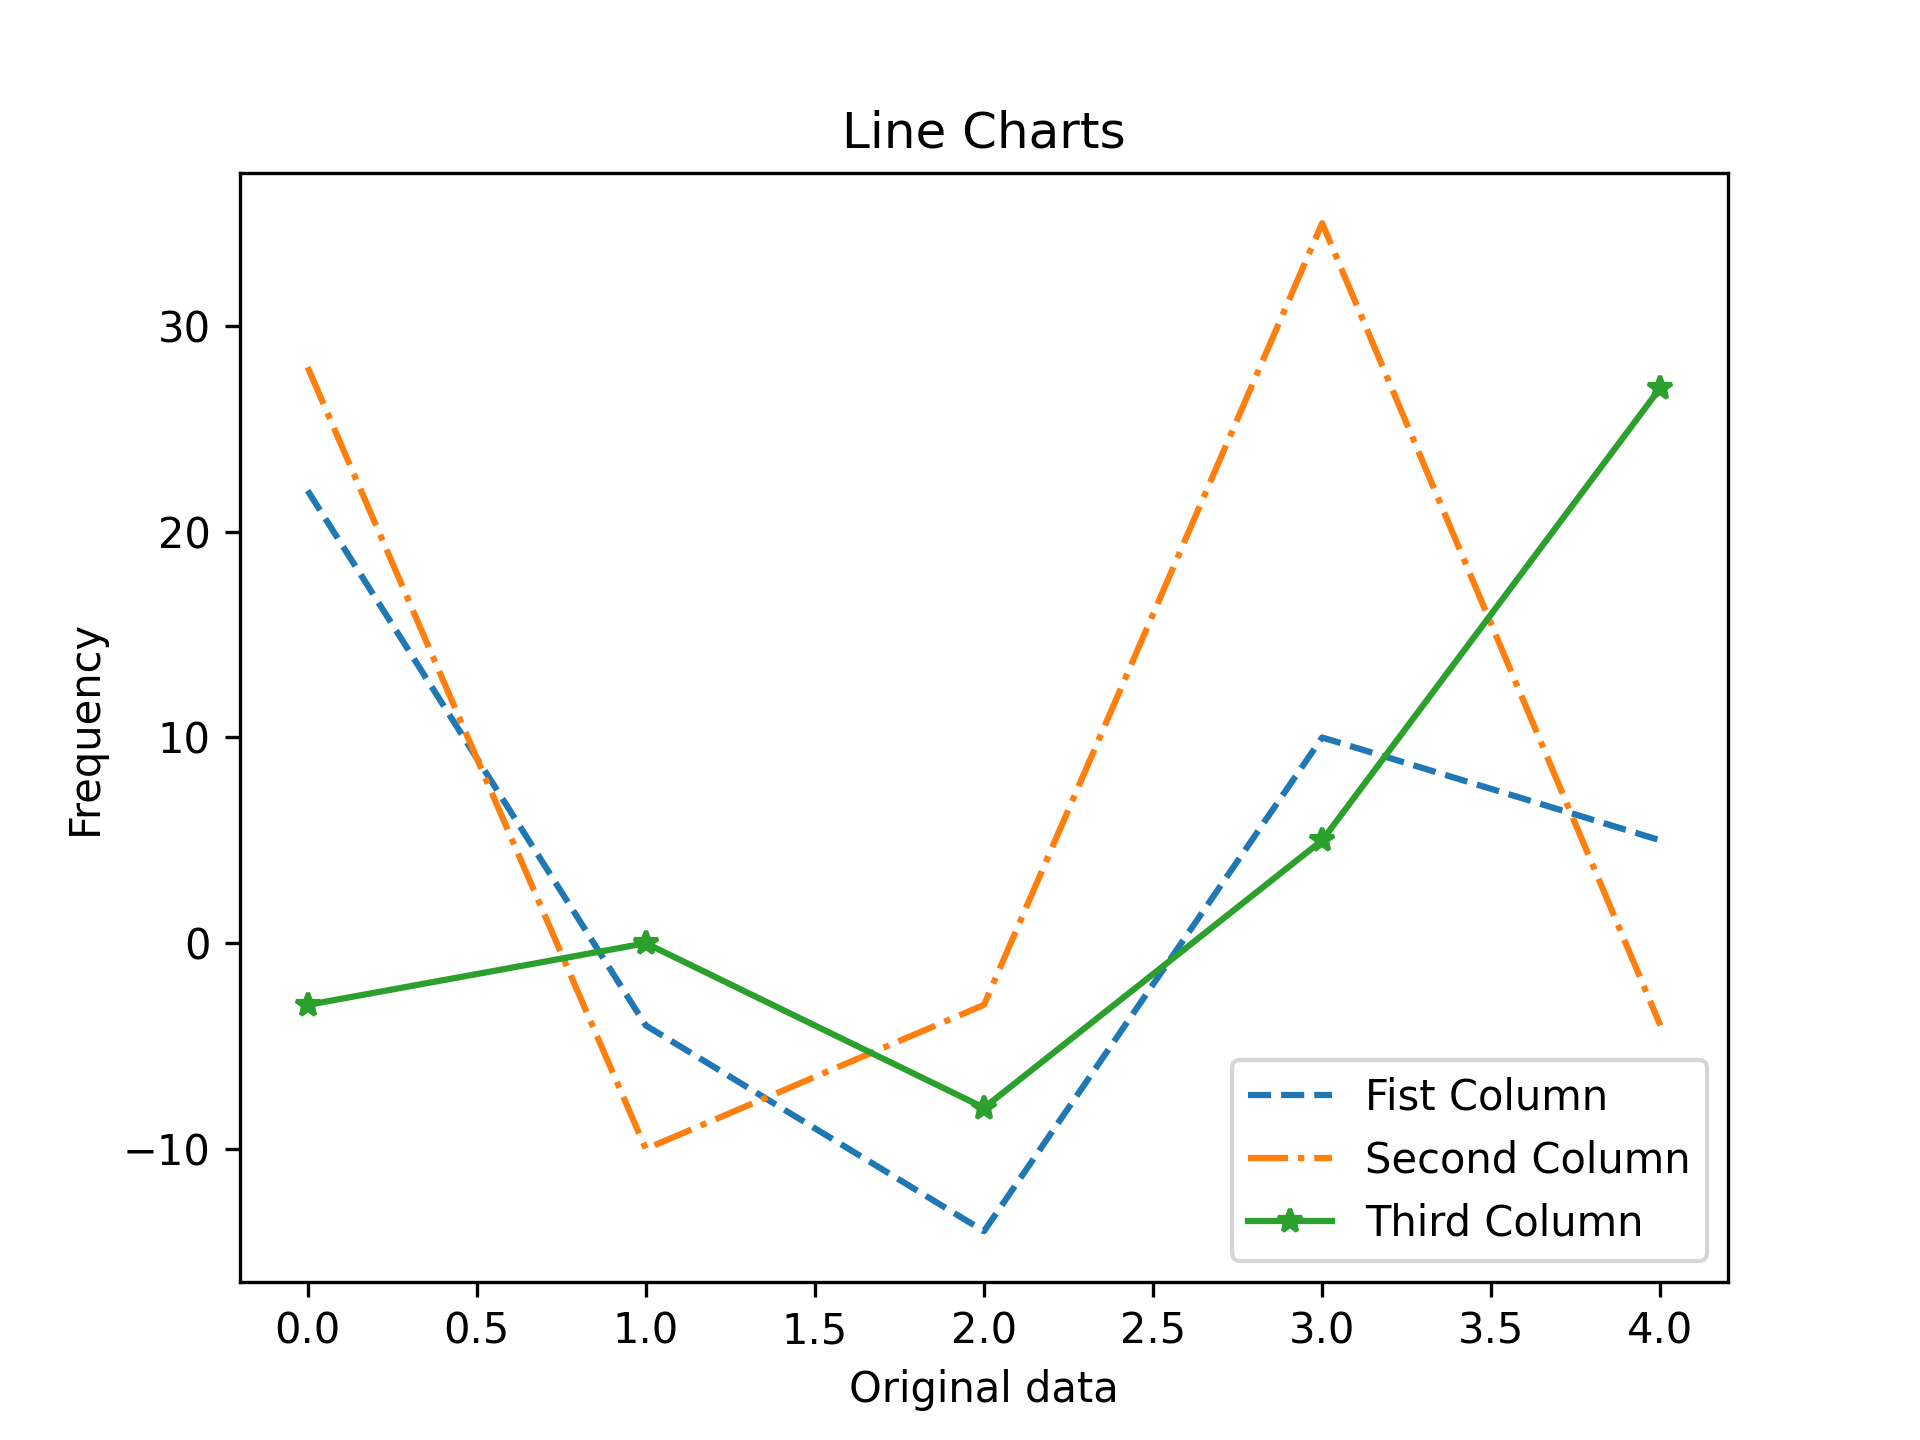
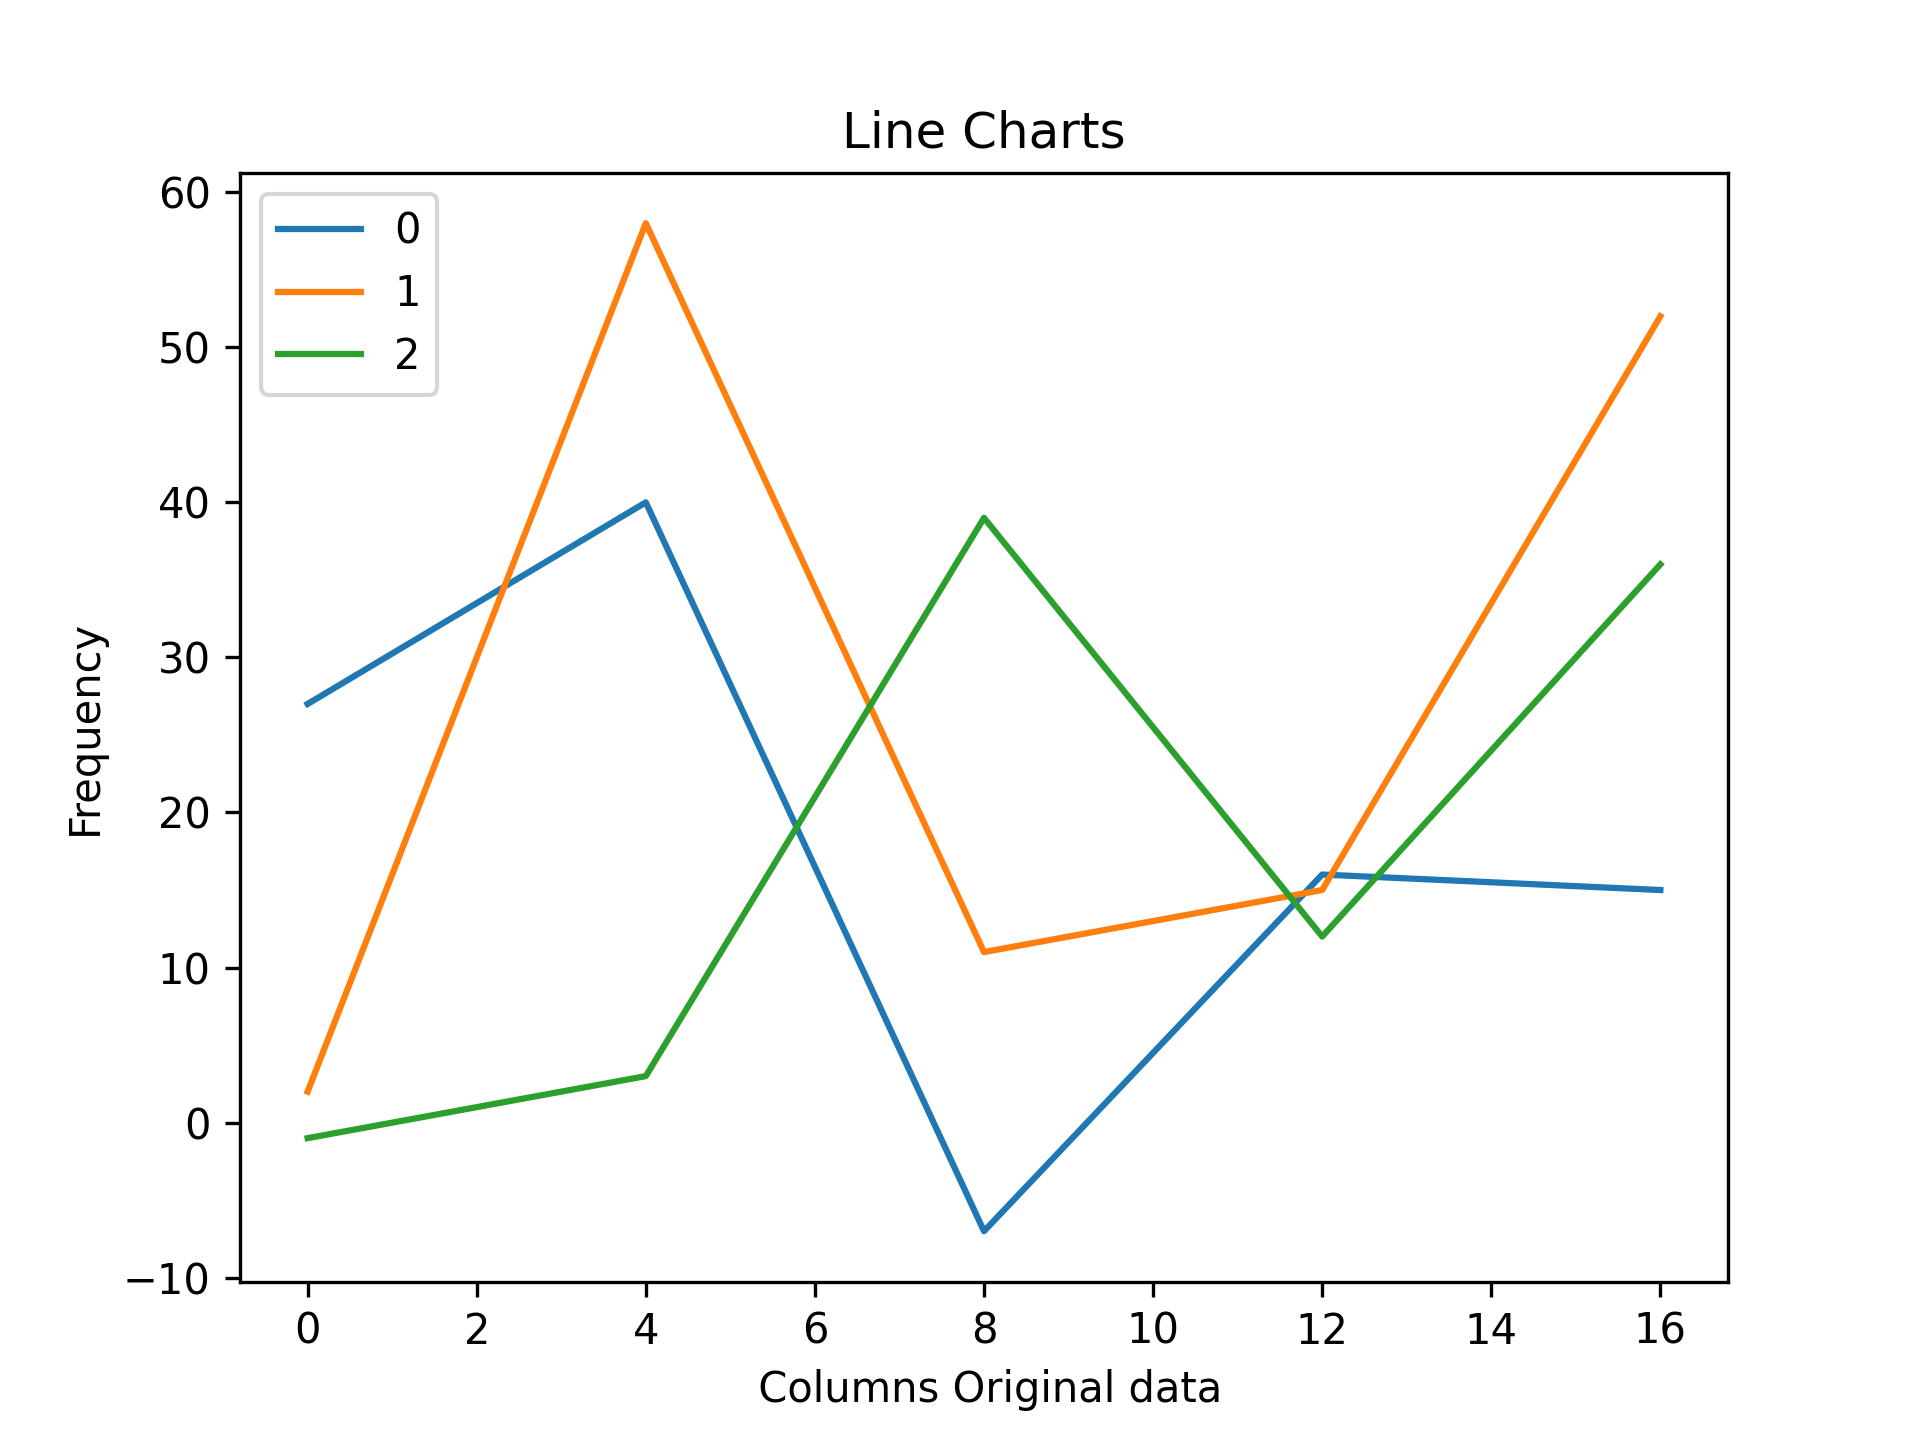
close 3month project and open 5 month project

diff --git a/3MonthProject/Month-02/week-04/script/excercise.py b/3MonthProject/Month-02/week-04/script/excercise.py
@@ -1,0 +1,143 @@
+# month-02
+# week-04
+# weekly excercise
+
+p=print
+
+p("-----------------------------")
+p("Day-01")
+
+#1- یک دیتاست واقعی دانلود کن (مثلاً داده فروش یا نمرات دانشآموزان)
+# یک داتاست از سایت کاگال دانلود شد 
+
+#2- با pd.read_csv() یا pd.read_excel() بخوان
+import pandas as pd
+path=r"e:\python\INTPCode\3MonthProject\Month-02\week-04\Data\students_exam_scores.xlsx"
+df=pd.read_excel(path)
+# p(df)
+
+#3- با info(), head(), describe() ساختار و آمار پایه را بررسی کن
+p("df info:")
+p(df.info())
+
+p("df first 100 rows:")
+p(df.head(100))
+
+p("df numberic columns description:")
+p(df.describe().round())
+p("---------------------------------------------")
+p("Day-02") 
+
+# 1-شناسایی مقادیر گمشده (isnull())
+p(df.isna().sum())
+# مقادیر گمشده رو تشخیص نمیده این تابع چون این مقادیر به صورت 
+# none 
+# نوشته شده اند با حرف ان کوچک
+
+df= df.replace("none",None)
+# با تابع ریپلیس مقادیر خالی را اصلاح کردیم
+p(df.isna().sum())
+# مشخص شد که تنها یک ستون مقادیر خالی دارد 
+
+# 2-حذف مقادیر گمشده (dropna())
+# ولی به دلیل بالا بودن مقادیر خالی در آن ستون
+# بهتر است به کلی، ستون را حذف کنیم
+
+del df["test preparation course"]
+
+# 3- جایگزینی مقادیر گمشده (fillna()) با میانگین هر ستون
+p("-------------------------------------------")
+p("Day-03") 
+
+# 1-ستونهای عددی دیتاست را تحلیل کن
+numcols=df.select_dtypes(include="number")
+p("df numberic columns:")
+p(numcols)
+
+# 2-میانگین، واریانس و انحراف معیار هر ستون را محاسبه کن
+p("numcols variance:")
+p(numcols.var().round())
+p("------------------------")
+p("numcols std:")
+p(numcols.std().round())
+p("------------------------")
+# 3-بیشترین و کمترین مقدار هر ستون را مشخص کن
+p("numcols max:")
+p(numcols.max())
+p("------------------------")
+p("numcols min:")
+p(numcols.min())
+p("------------------------------------------")
+
+p("Day-04")
+# 1-ستونهای دستهای (مثلاً جنسیت، کلاس، محصول) را بررسی کن
+p(df.info())
+# با اینفو ستون های آبچکت را تشخیص دادیم 
+# اغلب ستون های دسته ای از نوع آبجکت هستند 
+df_objects=df.select_dtypes(include="object")
+# ستون های آجکت را برای بررسی بیشتر، جدا کردیم
+p("number of unique items of object columns:")
+p(df_objects.nunique())
+# تایید دسته ای بودن ستون ها به دلیل کم تعداد بودن مقادیر یونیک در آنها
+
+# 2-تعداد هر دسته را با value_counts() محاسبه کن
+p("First column value counts:")
+p(df_objects.iloc[:,0].value_counts())
+
+p("-------------------------")
+p("Second column value counts:")
+p(df_objects.iloc[:,1].value_counts())
+
+p("-------------------------")
+p("Third column value counts:")
+p(df_objects.iloc[:,2].value_counts())
+p("-------------------------")
+p("Fourth column value counts:")
+p(df_objects.iloc[:,3].value_counts())
+
+p("-------------------------")
+# 3-میانگین یا جمع یک ستون عددی را بر اساس گروهها محاسبه کن (groupby)
+numcols_list= numcols.columns.tolist()
+groupers_list= df_objects.columns.tolist()
+
+
+group=df.groupby(by=groupers_list,as_index=False)[numcols_list].mean().reset_index(drop=True).round()
+# میانگین کل ستون های عددی رو بر اساس ستون های دسته ای حساب کردم و 
+# در یک داتافریم جدید ذخیره کردم
+
+path2=r"e:\python\INTPCode\3MonthProject\Month-02\week-04\Data\grouped.xlsx"
+'''
+with pd.ExcelWriter(path2,mode='a',if_sheet_exists= "new") as writer:
+    group.to_excel(writer,sheet_name="sh1",index=False)
+'''
+# نتیجه در یک اکسل جدید ذخیره شد ولی
+# اسامی ستون های عددی در این اکسل جدید نیز، بدون تغییر باقی ماند
+# منتها محتوای این ستون ها در اکسل جدید، تغییر کرده 
+# و تبدیل به میانگین بر اساس گروهبندی شده است 
+p("-------------------------")
+p("Day-05")
+
+# 1-یک ستون عددی را هیستوگرام کن
+import matplotlib.pyplot as plt
+
+fig1,axs1=plt.subplots()
+numcols.plot(kind="hist",y=numcols.columns[1],ax=axs1,color="green",edgecolor="black",title="Students Reading Score Histogram")
+# دی اف پلات هیستوگرام ستون منتخب، رسم شد
+
+# 2-یک ستون دستهای را نمودار میلهای رسم کن
+fig2,axs2=plt.subplots()
+
+df_objects.iloc[:,1].value_counts().plot(kind="bar",ax=axs2,color="green",edgecolor="black",title="race/ethnicity value counts bar",xlabel="scores bins")
+# سری پلات میله ای ستون دسته ای منتخب رسم شد
+
+# fig1.savefig(fname="Students Reading Score Histogram.png",dpi=300)
+# fig2.savefig(fname="race ethnicity value counts bar.png",dpi=300)
+
+# 3-یک رابطه دو ستون عددی را با scatter plot نمایش بده
+fig3,axs3=plt.subplots()
+numcols.plot(kind="scatter",x=numcols.columns[0],y=numcols.columns[1],ax=axs3,color="green",title="math score reading score scatter")
+# fig3.savefig(fname="math score reading score scatter.png",dpi=300)
+
+p("--------------------------------------")
+
+

diff --git a/3MonthProject/Month-02/week-02/Day-07/script/excercise.py b/3MonthProject/Month-02/week-02/Day-07/script/excercise.py
@@ -2,3 +2,54 @@
 # week-02
 # Day-07
 
+# 1. با np.random یک دیتاست بساز
+import numpy as np 
+np.random.seed(1)
+import pandas as pd
+p=print
+m=np.random.choice(range(-10,60),size=80)
+mr=m.reshape(20,4)
+df=pd.DataFrame(mr)
+# p(df)
+
+# 2. میانگین، واریانس، max/min محاسبه کن
+p("datafram colomns min:")
+p(df.min())
+p("datafram columns max:")
+p(df.max())
+p("datafram columns mean:")
+p(df.mean())
+p("datafram columns variance:")
+p(df.var().round())
+
+# 3. یک هیستوگرام از دادهها رسم کن
+import matplotlib.pyplot as plt
+fig1,axs1=plt.subplots(2,1,constrained_layout=True)
+axs1[0].hist(m,color="green",edgecolor="black")
+axs1[0].set_title("Random Dataset histogram")
+axs1[0].set_xlabel("digits")
+axs1[0].set_ylabel("Frequency")
+
+# 4. یک scatter از (داده، sqrt(داده)) 
+m_sqrt_abs=np.sqrt(np.abs(m))
+axs1[1].scatter(m,m_sqrt_abs,color="blue")
+axs1[1].set_title("Random Dataset scatter")
+axs1[1].set_xlabel("original data")
+axs1[1].set_ylabel("square root of data")
+# fig1.savefig(fname="fig1.png",dpi=300)
+
+# 5. سه نمودار خطی مختلف ایجاد کن
+fig2,axs2=plt.subplots()
+df.iloc[::4,:3].plot(ax=axs2,label=True,title="Line Charts",xlabel=" Columns Original data",ylabel="Frequency")
+fig2.savefig(fname="Line Charts fig.png",dpi=300)
+
+# plt.show()
+# به دلیل نوسان بیش از حد داده ها 
+# هر 4 ردیف را در رسم نمودار میله ای
+# با گذاشتن استپ برای ردیف ها یکی کردیم 
+
+# 6. نتایج را جمعبندی کن
+# از روی هیستوگرام میفهمیم که داده ها بیشتر مثبت هستند
+# پس توزیع کاملا یکنواخت نیست و به سمت مثبت گرایش دارد
+# از روی نمودارهای خطی نیز متوجه پراکندگی و نوسان بیش از حد داده ها میشویم
+

diff --git a/3MonthProject/reference_formulas/formulas_notes.py b/3MonthProject/reference_formulas/formulas_notes.py
@@ -472,7 +472,7 @@ df["class"].value_counts().plot(kind="bar",ax=axs1[1],title="Students Class Bar 
 
 fig1.savefig(fname="Value_counts bar Cahrt.png",dpi=300)
 plt.show()
------------
+---------------
 مثال برای رسم دو نمودار از مت پلات لیب خالص 
 
 import numpy as np
@@ -486,6 +486,10 @@ a2=np.random.uniform(-10,45,100).astype(int)
 import matplotlib.pyplot as plt
 fig1,axs1=plt.subplots(2,1,figsize=None,constrained_layout=True)
 axs1[0].hist(a1,color="green",edgecolor="black")
+# اگر فقط یک نمودار داشته باشیم نیاز به براکت عدد دار نیست
+# یعنی مثلا باید بنویسیم  
+# axs1.hist()
+
 axs1[0].set_title("A1 Hist")
 axs1[0].set_xlabel("digits")
 axs1[0].set_ylabel("Frequency")

diff --git a/5_Month_Computer_Vision_Roadmap/Month-02/Test.py b/5_Month_Computer_Vision_Roadmap/Month-02/Test.py
@@ -1,0 +1,1 @@
+p=print
